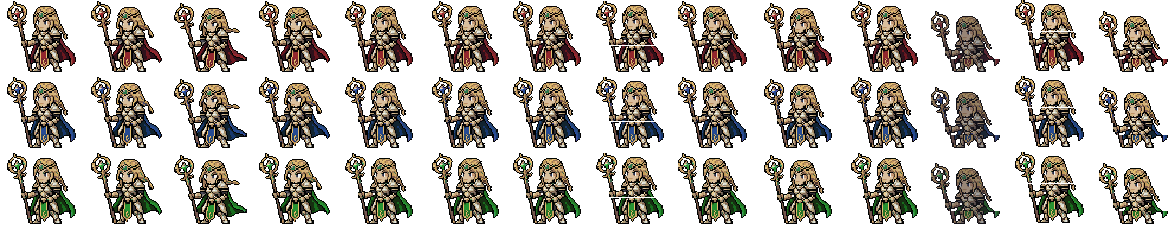
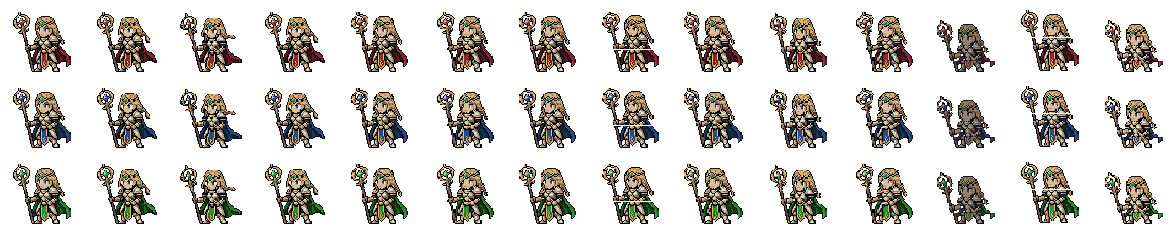
Match hero heights: shrink girl cleric, boy cleric and girl ranger to knight size
Claude-Session: https://claude.ai/code/session_01PAJQvS6MdJB9emcv35BH5f

diff --git a/tools/build_ranger.py b/tools/build_ranger.py
@@ -12,15 +12,16 @@ kneel. The idle loop comes from PixelLab when tools/art-src/<sheet>_idle.png exi
 import os
 from PIL import Image
 from build_knight import lean, shift_rows, paste_clip, darken, update_manifest, FW, FH, AX, AY, OUT_DIR
-from heroart import hue_shift, load_idle, ART_SRC
+from heroart import hue_shift, load_idle, shrink_frame, ART_SRC
 
 POSES = ['idle0', 'idle1', 'idle2', 'idle3', 'windup', 'swing1', 'swing2', 'cast0', 'cast1', 'defend', 'hurt', 'down', 'victory', 'sit']
 GREEN = dict(lo=0.17, hi=0.48, smin=0.12, lmax=0.7)
+# scale: shrinks the finished frames about the feet so every hero stands about 55px tall (knight-sized)
 CONFIGS = {
     'ranger:m': dict(src='ranger_base.png', sheet='ranger', variants=[0, -0.24, 0.30], tint=GREEN),            # green, autumn red, river blue
-    'ranger:f': dict(src='ranger_f_base.png', sheet='ranger_f', variants=[0, -0.24, 0.30], tint=GREEN),
-    'cleric:f': dict(src='cleric_f_base.png', sheet='cleric', variants=[0, 0.62, 0.36], tint=dict(lo=0.93, hi=0.04, smin=0.25, lmax=0.7, wrap=True)),  # red, blue, green cape
-    'cleric:m': dict(src='cleric_m_base.png', sheet='cleric_m', variants=[0, 0.16, -0.12], tint=dict(lo=0.55, hi=0.75, smin=0.12, lmax=0.8)),           # blue, violet, teal robe
+    'ranger:f': dict(src='ranger_f_base.png', sheet='ranger_f', variants=[0, -0.24, 0.30], tint=GREEN, scale=0.95),
+    'cleric:f': dict(src='cleric_f_base.png', sheet='cleric', variants=[0, 0.62, 0.36], tint=dict(lo=0.93, hi=0.04, smin=0.25, lmax=0.7, wrap=True), scale=0.85),  # red, blue, green cape
+    'cleric:m': dict(src='cleric_m_base.png', sheet='cleric_m', variants=[0, 0.16, -0.12], tint=dict(lo=0.55, hi=0.75, smin=0.12, lmax=0.8), scale=0.93),           # blue, violet, teal robe
 }
 
 def anchor_x(im):
@@ -82,9 +83,14 @@ def build_one(key):
         P['down'] = kneel(body, True)
         P['victory'] = frame(body, dy=-1, upper=(up1, 0, -1))
         P['sit'] = kneel(body, False)
-        for pi, name in enumerate(POSES): sheet.alpha_composite(P[name], (pi * FW, vi * FH))
+        sc = cfg.get('scale', 1)
+        for pi, name in enumerate(POSES): sheet.alpha_composite(shrink_frame(P[name], sc, AX, AY), (pi * FW, vi * FH))
     sheet.save(os.path.join(OUT_DIR, cfg['sheet'] + '.png'))
     px, py, pw, ph = face_box(base)
+    sc = cfg.get('scale', 1)
+    if sc < 1:   # move the portrait crop to where the face ends up after the shrink
+        fx, fy = OX + px + pw / 2, OY + py + ph / 2
+        px = round(AX + (fx - AX) * sc - pw / 2) - OX; py = max(-OY, round(AY + (fy - AY) * sc - ph / 2) - OY)
     update_manifest(key, {
         'sheet': cfg['sheet'] + '.png', 'frame': [FW, FH], 'variants': len(cfg['variants']), 'variantRows': 1,
         'poses': {n: [i, 0] for i, n in enumerate(POSES)}, 'portrait': [OX + px, OY + py, pw, ph]

diff --git a/tools/heroart.py b/tools/heroart.py
@@ -27,3 +27,41 @@ def load_idle(name):
     if not os.path.exists(path): return None
     strip = Image.open(path).convert('RGBA')
     return [strip.crop((i * FW, 0, (i + 1) * FW, FH)) for i in range(4)]
+
+def shrink(im, s, about=None):
+    """Scale a sprite down by s (<1) and snap it back to its own colours so it stays crisp.
+    about=(x, y): keep that point fixed and keep the canvas size (for frame-coordinate images);
+    otherwise return a smaller image."""
+    if s >= 0.999: return im
+    W, H = im.size
+    w, h = max(1, round(W * s)), max(1, round(H * s))
+    # premultiplied box filter so transparent pixels don't bleed dark fringes
+    pm = im.convert('RGBa').resize((w, h), Image.BOX).convert('RGBA')
+    opaque = [px[:3] for px in im.getdata() if px[3] > 127]
+    colours = sorted(set(opaque), key=opaque.count, reverse=True)[:96] if len(set(opaque)) > 96 else list(set(opaque))
+    pal_img = Image.new('P', (1, 1))
+    flat = [c for rgb in colours for c in rgb]; flat += [0] * (768 - len(flat))
+    pal_img.putpalette(flat)
+    rgb = pm.convert('RGB').quantize(colors=len(colours), palette=pal_img, dither=Image.Dither.NONE).convert('RGB')
+    out = Image.new('RGBA', (w, h)); src = rgb.load(); al = pm.getchannel('A').load(); o = out.load()
+    for y in range(h):
+        for x in range(w):
+            if al[x, y] >= 110: o[x, y] = src[x, y] + (255,)
+    if about is None: return out
+    ax, ay = about
+    canvas = Image.new('RGBA', (W, H)); canvas.alpha_composite(out, (round(ax - ax * s), round(ay - ay * s)))
+    return canvas
+
+def shrink_frame(im, s, ax, ay):
+    """Nearest-neighbour shrink of a frame about its foot anchor (ax, ay). Every pose of a hero
+    uses the same sampling grid, so the frames stay consistent with each other."""
+    if s >= 0.999: return im
+    W, H = im.size
+    out = Image.new('RGBA', (W, H)); src = im.load(); o = out.load()
+    for y in range(H):
+        sy = int(ay + (y + 0.5 - ay) / s)
+        if not 0 <= sy < H: continue
+        for x in range(W):
+            sx = int(ax + (x + 0.5 - ax) / s)
+            if 0 <= sx < W: o[x, y] = src[sx, sy]
+    return out

diff --git a/README.md b/README.md
@@ -149,7 +149,7 @@ The built-in sprites are generated by a pixel rig in `public/js/sprites.js` (her
 
 Hero frames are 84×76 with the feet at (46, 72), facing left. Enemy frame sizes are in `ENEMY_DEF` in `sprites.js`, facing right. Anything not listed keeps the generated art. Add `"portrait": [x, y, w, h]` to a hero to crop its HUD portrait from the idle frame. Add `"variants": 3, "variantRows": 1` to put colour variants on extra rows.
 
-**All heroes are Andy's own sprites, in a boy and a girl version.** Hero art is keyed `class:gender` in the manifest (`knight:m`, `mage:f`, …); the server gives each hero a `skin` and every portrait and sprite uses it. The knight has one sprite for both (no girl knight yet). Every hero's idle loop was animated by PixelLab (`animate_image`, 4 frames played 0-1-2-1 so it loops smoothly); the mages' flames flicker in it. The source strips are `tools/art-src/<sheet>_idle.png`. `python3 tools/build_knight.py`, `tools/build_mage.py` (both mages: the staff is moved to the free hand and re-angled per pose; the flame grows for spells and goes out when knocked down) and `tools/build_ranger.py` (both rangers and both clerics: whole-sprite lean, recoil, crouch and kneel) build the other poses and three colour variants. All have a 14th pose, `sit`, used at the campfire. All ten event illustrations in `public/art/events/` were generated with PixelLab (192×192, shown with a soft vignette). The raid boss Voidmaw is Andy's red dragon, made in PixelLab: `python3 tools/build_dragon.py` turns `tools/art-src/dragon_base.png` (256×256, mirrored to face the heroes) into `public/art/voidmaw.png`, scaled to 148px and snapped back to its own palette, with lean, lunge, roar and hurt poses and fire breath added at the jaws.
+**All heroes are Andy's own sprites, in a boy and a girl version.** Hero art is keyed `class:gender` in the manifest (`knight:m`, `mage:f`, …); the server gives each hero a `skin` and every portrait and sprite uses it. The knight has one sprite for both (no girl knight yet). Every hero's idle loop was animated by PixelLab (`animate_image`, 4 frames played 0-1-2-1 so it loops smoothly); the mages' flames flicker in it. The source strips are `tools/art-src/<sheet>_idle.png`. `python3 tools/build_knight.py`, `tools/build_mage.py` (both mages: the staff is moved to the free hand and re-angled per pose; the flame grows for spells and goes out when knocked down) and `tools/build_ranger.py` (both rangers and both clerics: whole-sprite lean, recoil, crouch and kneel) build the other poses and three colour variants. Heroes are matched to the knight's height (about 55px, feet to head): `build_ranger.py` shrinks the girl cleric to 85%, the boy cleric to 93% and the girl ranger to 95% with a nearest-neighbour pass about the feet, so pixels stay crisp and every pose shrinks the same way. The mages are about 2px shorter and are left as drawn, since enlarging pixel art doubles pixels. All have a 14th pose, `sit`, used at the campfire. All ten event illustrations in `public/art/events/` were generated with PixelLab (192×192, shown with a soft vignette). The raid boss Voidmaw is Andy's red dragon, made in PixelLab: `python3 tools/build_dragon.py` turns `tools/art-src/dragon_base.png` (256×256, mirrored to face the heroes) into `public/art/voidmaw.png`, scaled to 148px and snapped back to its own palette, with lean, lunge, roar and hurt poses and fire breath added at the jaws.
 
 **The knight is hand-made.** `public/art/knight.png` is built from Andy's knight (`tools/art-src/knight_base.png`, 64×55, facing left) by `python3 tools/build_knight.py` (needs Pillow). The script cuts out the sword and re-angles it around the grip (RotSprite-style, so the blade stays crisp), leans and shifts the body for each pose, makes the kneeling knocked-out pose, and recolours the cape for the second and third knight in a team (blue, crimson, emerald). To change the knight, replace the base image and re-run the script. `/dev/sprites.html` shows every frame; `/dev/scene.html` previews the battle scene.
 
